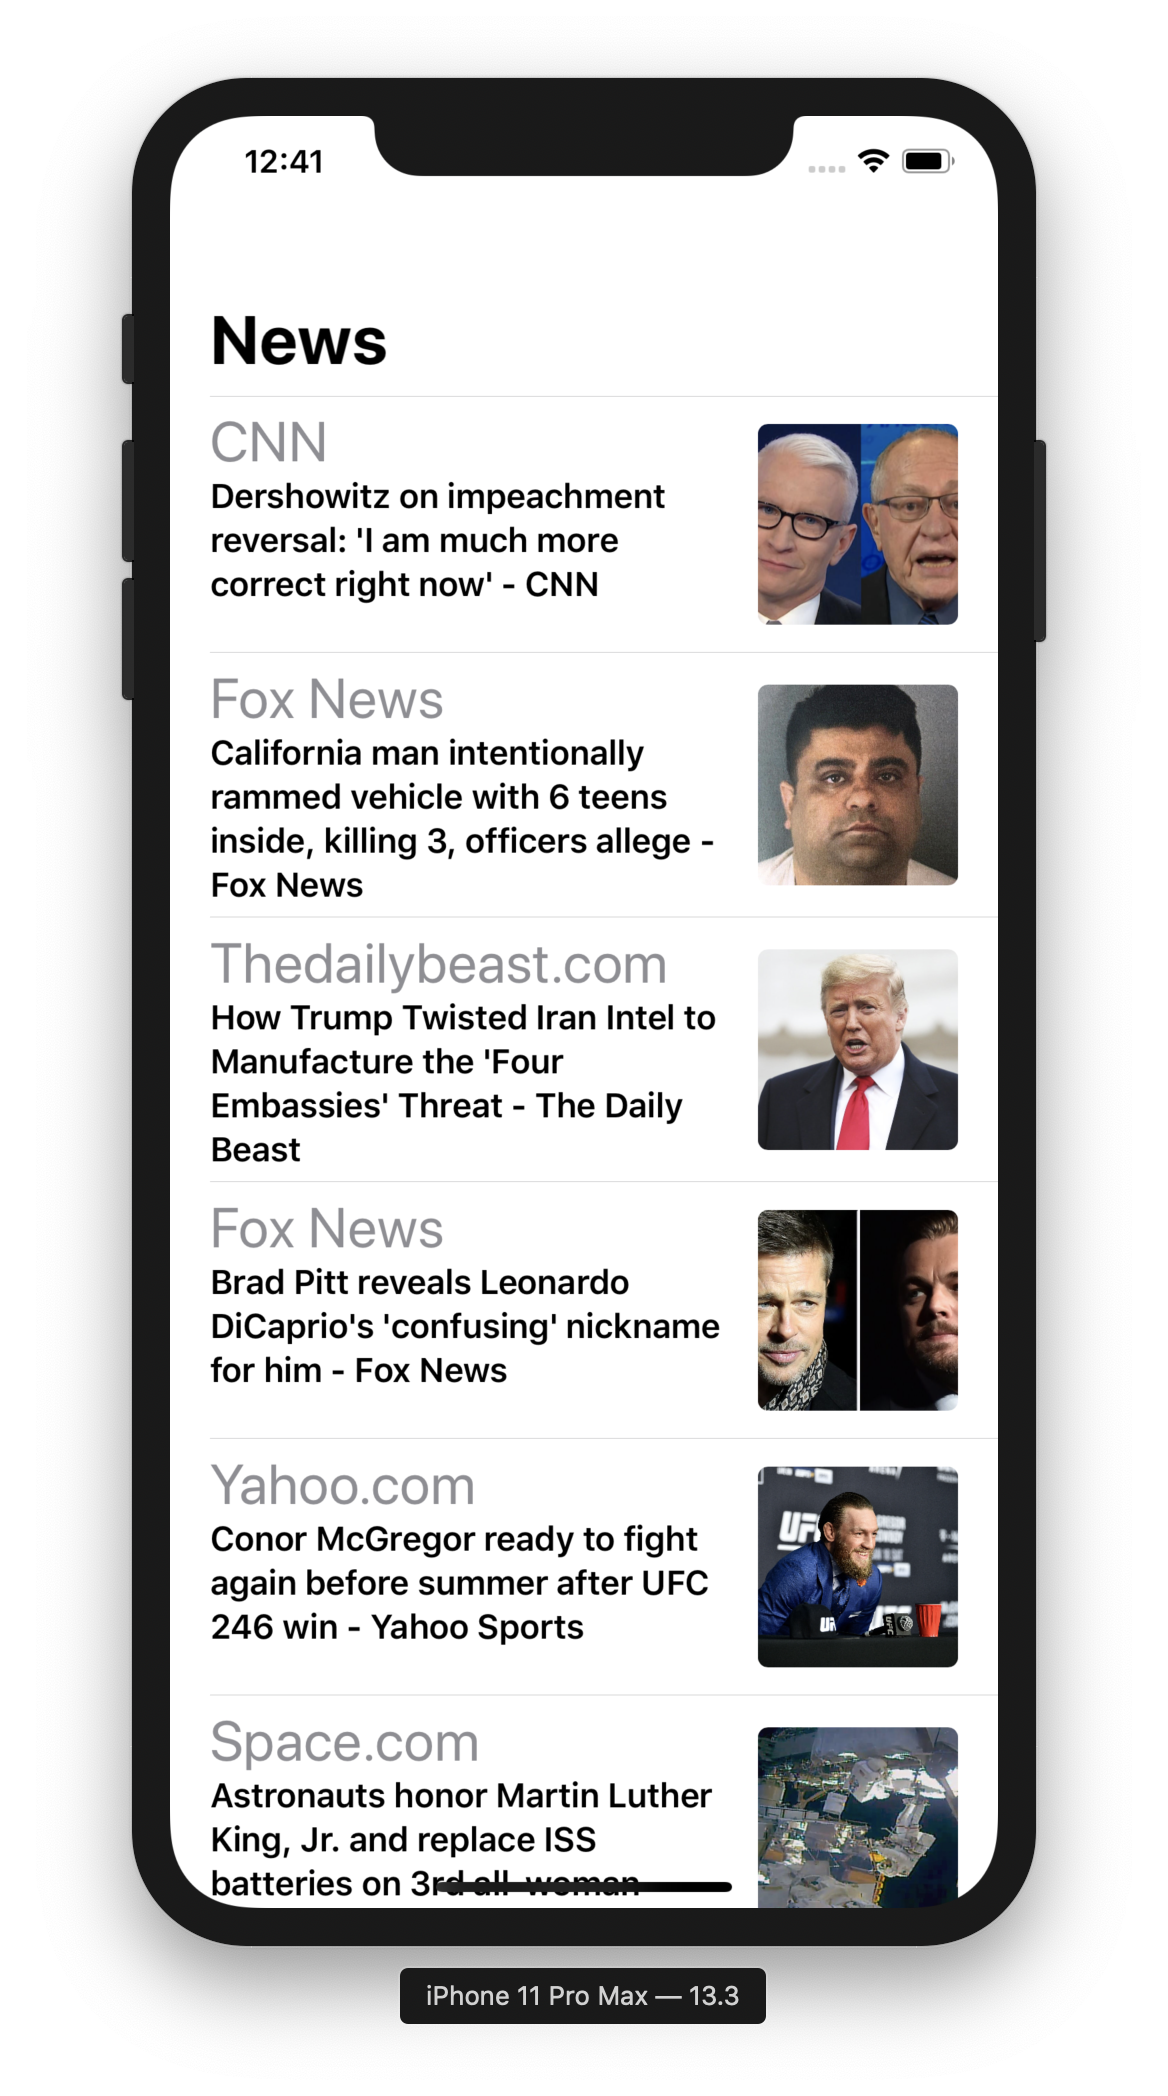
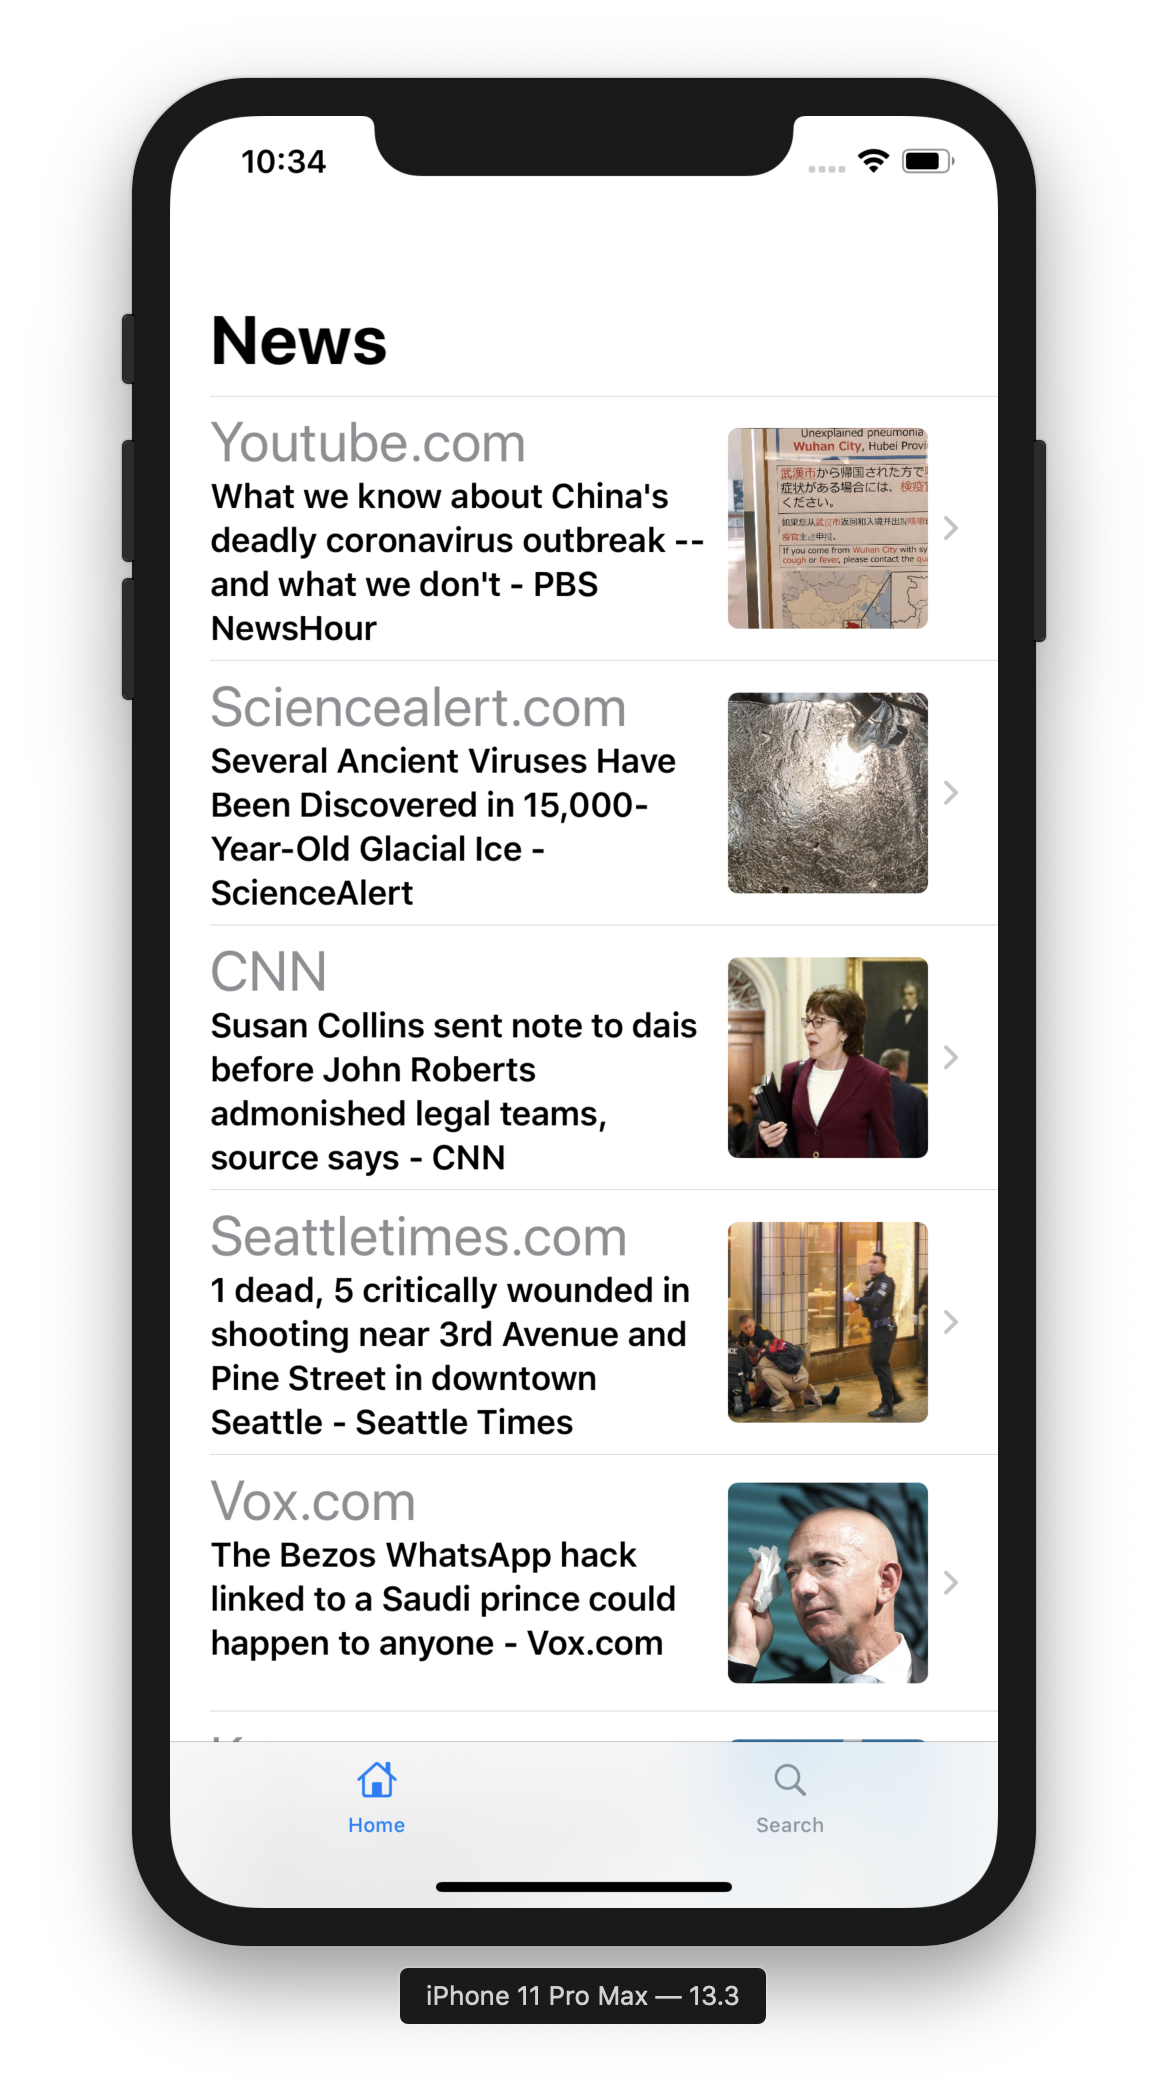
Update screenshots

Changed region(s): [[0.1849, 0.1861, 0.8322, 0.9303], [0.2158, 0.062, 0.2774, 0.093]]

diff --git a/README.md b/README.md
@@ -1,4 +1,14 @@
 # News
 Basic news app built using SwiftUI. Powered by News API
 
-<img src="https://github.com/inf-nexus/News/blob/master/screenshots/News_App_Img1.png" width="360" height="640" />
+<p align="center">
+    <img src="https://github.com/inf-nexus/News/blob/master/screenshots/News_App_Img1.png" width="360" height="640" />
+</p>
+
+<p align="center">
+    <img src="https://github.com/inf-nexus/News/blob/master/screenshots/News_App_Search.png" width="360" height="640" />
+</p>
+
+
+
+
